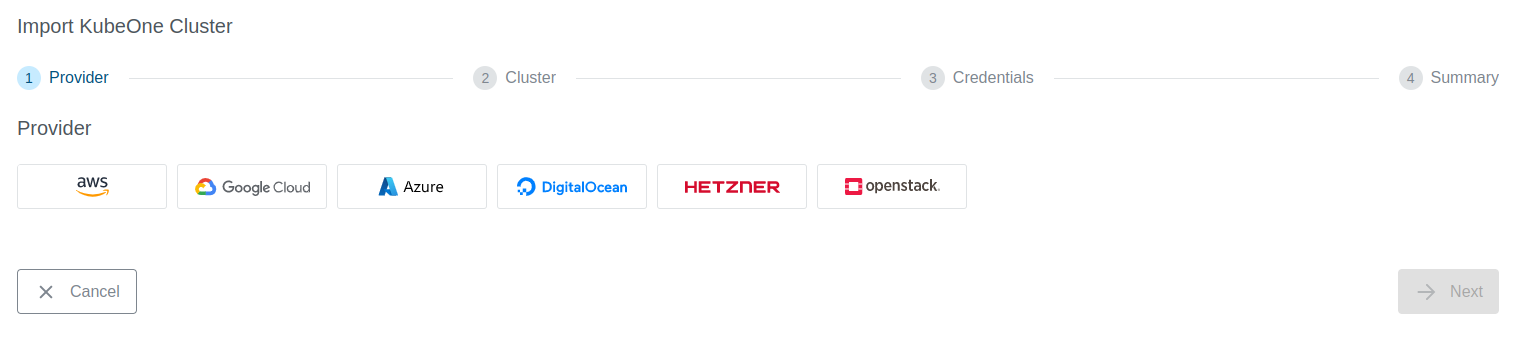
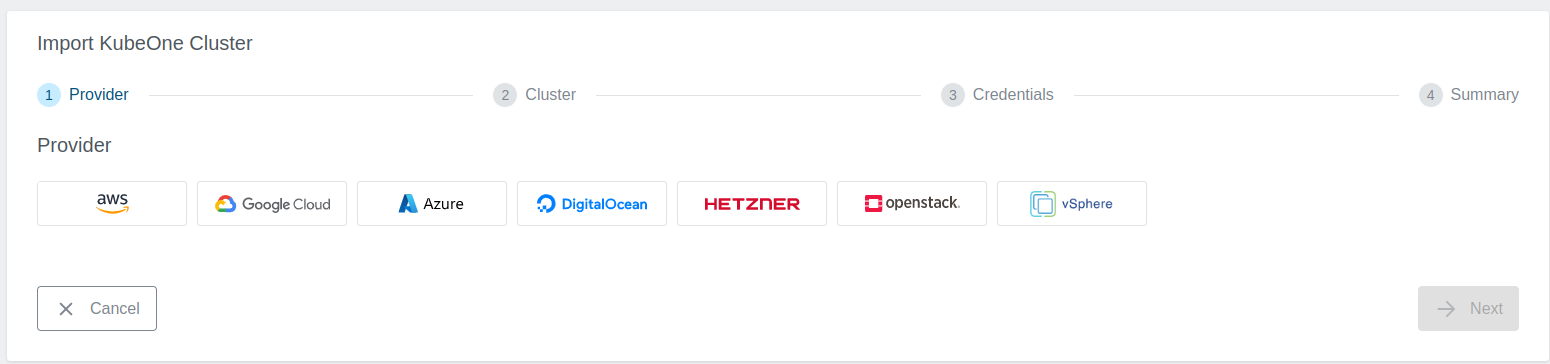
add docs for vsphere kubeone provider

diff --git a/content/kubermatic/main/tutorials-howtos/kkp-kubeone-integration/vsphere/_index.en.md b/content/kubermatic/main/tutorials-howtos/kkp-kubeone-integration/vsphere/_index.en.md
@@ -1,0 +1,32 @@
++++
+title = "vSphere"
+date = 2023-06-15T14:07:15+02:00
+description = "Detailed tutorial to help you manage vSphere KubeOne cluster using KKP"
+weight = 7
+
++++
+
+## Import vSphere Cluster
+
+You can add an existing vSphere KubeOne cluster and then manage it using KKP.
+
+- Navigate to `KubeOne Clusters` page.
+
+- Click `Import KubeOne Cluster` button.
+
+![Import KubeOne Cluster](/img/kubermatic/main/tutorials/kubeone_clusters/cluster_list_empty.png "Import KubeOne Cluster")
+
+- Pick `vSphere` provider.
+
+![Select Provider](/img/kubermatic/main/tutorials/kubeone_clusters/import_kubeone_cluster.png "Select Provider")
+
+- Provide cluster Manifest config yaml, SSH private key and SSH key Passphrase (if any) used to create the cluster you are importing, to access the KubeOne cluster using KKP.
+
+![Cluster Settings](/img/kubermatic/main/tutorials/kubeone_clusters/cluster_settings_step.png "Cluster Settings")
+
+- Enter the credentials `Username`, `Password`, and `ServerURL` used to create the KubeOne cluster you are importing.
+
+
+![vSphere credentials](/img/kubermatic/main/tutorials/kubeone_clusters/vsphere_credentials_step.png "vSphere credentials")
+
+- Review provided settings and click `Import KubeOne Cluster`.

diff --git a/content/kubermatic/main/tutorials-howtos/kkp-kubeone-integration/_index.en.md b/content/kubermatic/main/tutorials-howtos/kkp-kubeone-integration/_index.en.md
@@ -15,6 +15,8 @@ We can import/connect an existing KubeOne cluster. Imported Cluster can be viewe
    - [DigitalOcean]({{< ref "./digitalocean" >}})
    - [Hetzner]({{< ref "./hetzner" >}})
    - [OpenStack]({{< ref "./openstack" >}})
+   - [vSphere]({{< ref "./vsphere" >}})
+
 
 ## Prerequisites
 
